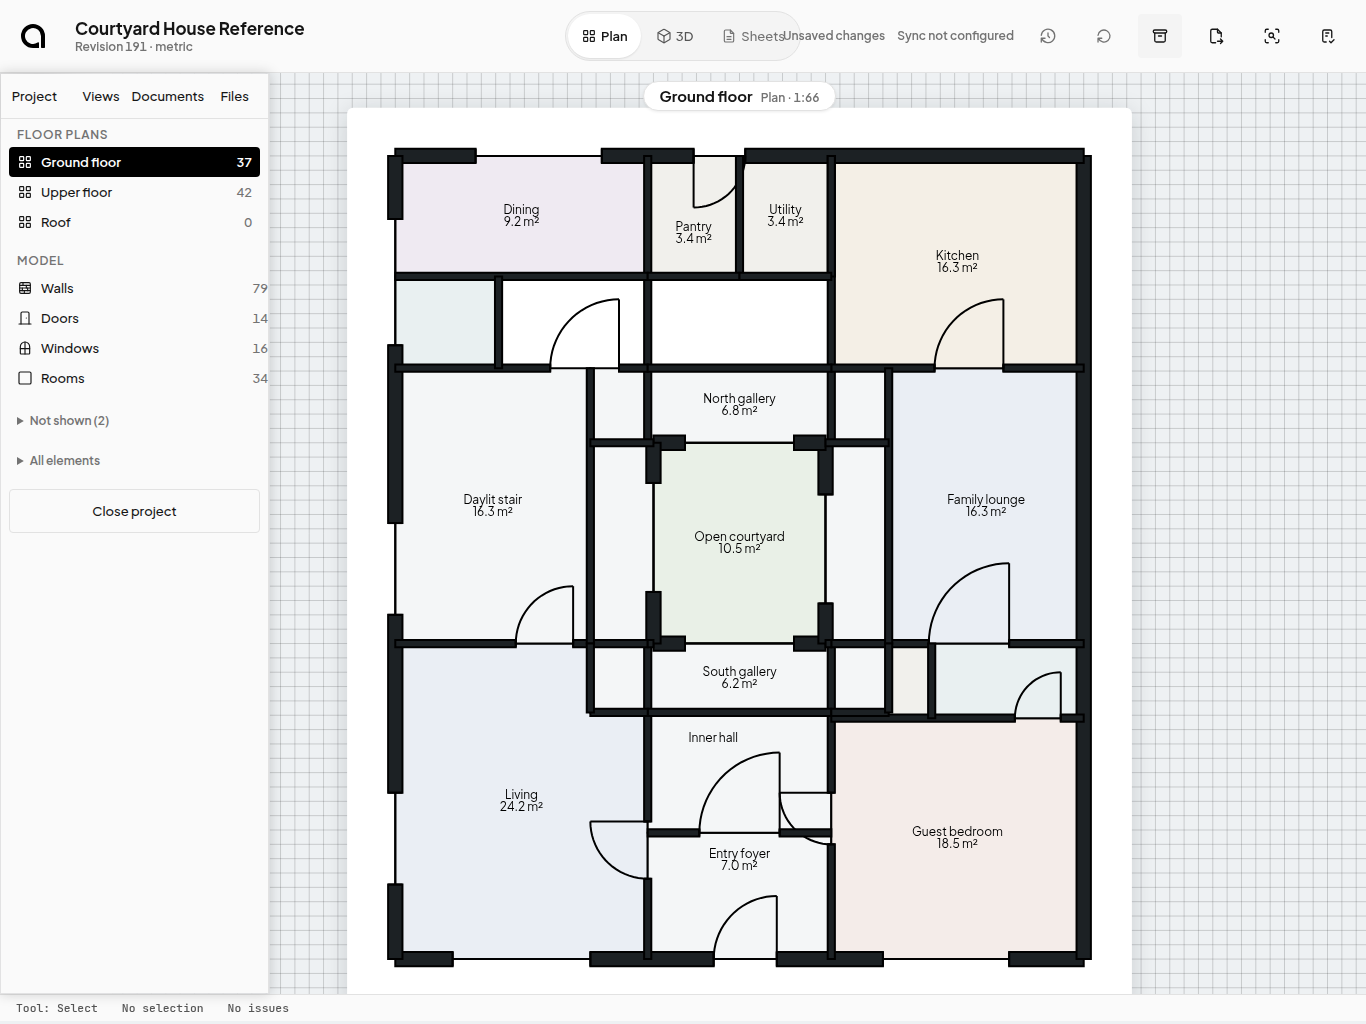
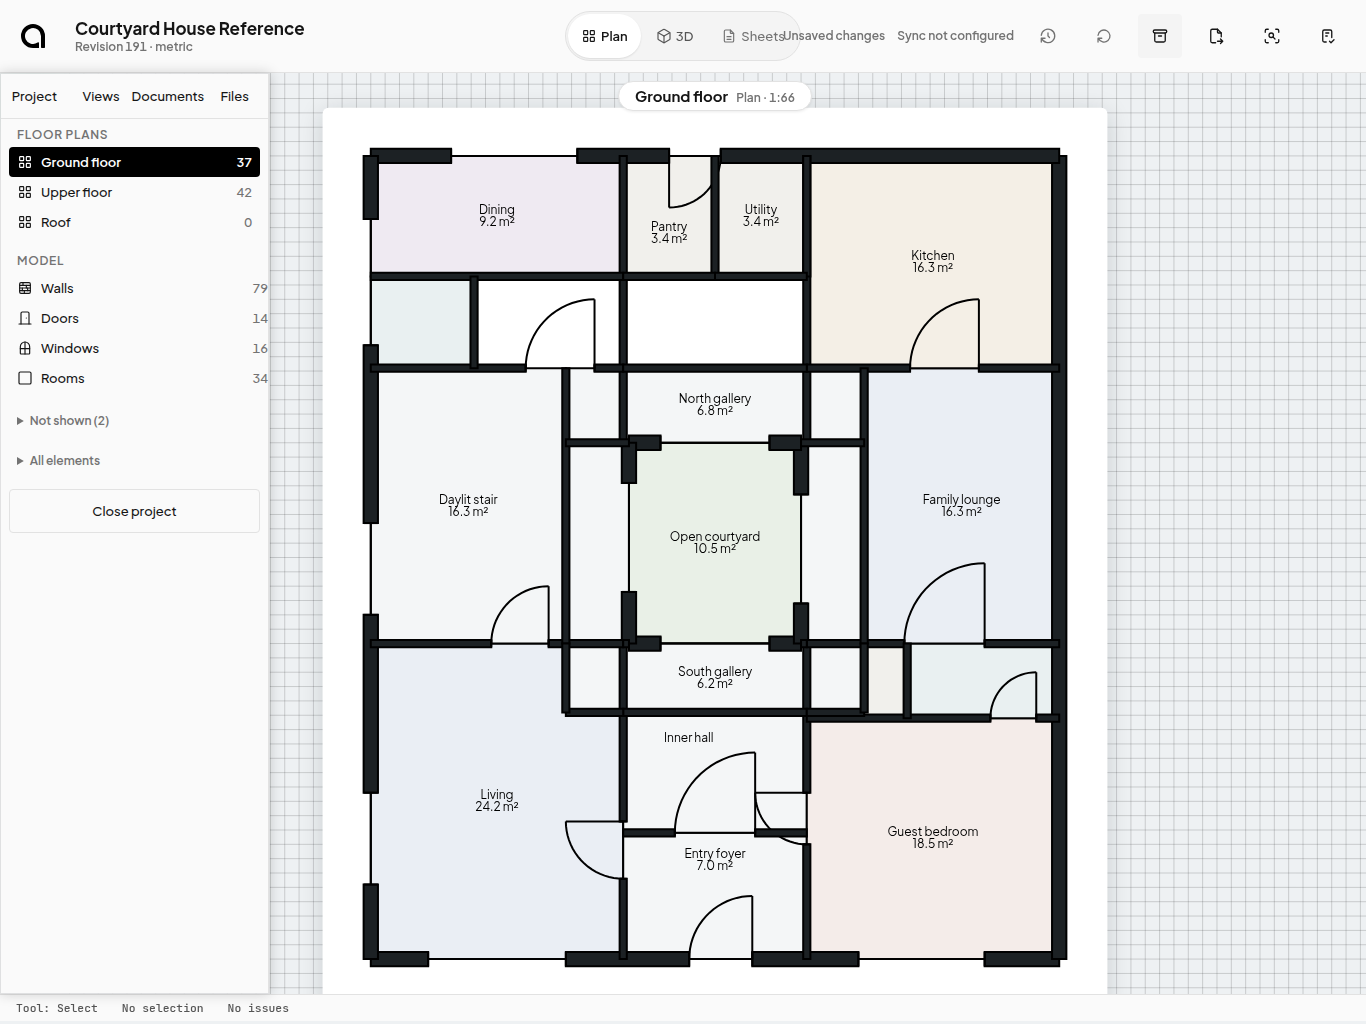
Give the drawing's edge one dock instead of a slab of eleven glyphs
The two rails were already joined edge to edge with a negative margin,
which removed the gutter between them and made it worse rather than
better: two columns abutting read as one 112px slab of eleven glyphs in a
grid down the side of the drawing. The reference gives the whole edge a
single 56px column.

They stack now instead of abutting. The components stay separate - they
answer different questions, each keeps its own landmark and label, and
doc 36 requires that - but doc 36 also allows exactly this visual merge,
and asks that the grouping between them be carried by spacing rather than
a second colour system. It is a rule between the two groups.

`WORKSPACE_RAILS_WIDTH_PX` summed the two rails. Stacked, the dock is as
wide as the wider of them, not as wide as both, so the sum was describing
112px of chrome that is no longer on screen - and every measurement
downstream of it, the canvas floor and the floating panel's offset, was
short by a whole rail. It is a max now.

The active control becomes a filled disc in the brand accent, which is
the one place the brand spec puts that colour in the chrome. Scoped to
the dock rather than changed on `.arq-shell-button[aria-pressed='true']`,
which the tab strip, the panel rows and the phone dock all share. Not
colour alone - it is a fill against an otherwise flat column, and
`aria-pressed` is still what assistive technology reads. The token
resolves to #0b6b50 in light and #35c99b in dark, and the glyph flips
[…]

diff --git a/packages/design-system/src/workspace/workspace-shell.css b/packages/design-system/src/workspace/workspace-shell.css
@@ -148,29 +148,36 @@ body {
   }
 
   /*
-   * One dock, not two.
+   * One dock, one column.
    *
-   * The rails are separate components on purpose - they answer different
-   * questions ("what am I doing?" and "what am I doing it with?") and stay
-   * semantically apart, each with its own landmark and label. But they were
-   * also two *cards*, floating side by side with a gutter between them, so the
-   * left edge read as two toolbars competing for the same job. The reference
-   * gives the whole edge to one dock.
-   *
-   * Joined by geometry rather than by merging the markup: the seam closes, the
-   * outer corners keep their radius, and a single divider line says where one
-   * ends. Nothing about the accessibility tree changes.
+   * The rails used to be joined edge to edge with a negative margin, which
+   * removed the gutter between them and left the two columns reading as one
+   * slab: eleven glyphs in a 112px grid down the side of the drawing. The
+   * reference gives the edge a single 56px column, so the dock stacks them
+   * instead of abutting them, and the seam between the two groups is a rule
+   * rather than a gap - doc 36's "grouping/spacing, not a second colour
+   * system".
    */
-  .arq-workspace .arq-mode-rail {
-    border-start-end-radius: 0;
-    border-end-end-radius: 0;
-    border-inline-end: 0;
+  .arq-workspace__dock {
+    align-self: flex-start;
+    max-height: 100%;
+    overflow: auto;
+    border-radius: var(--arq-radius-panel);
+    border: 1px solid var(--arq-ui-line-subtle);
+    background: var(--arq-ui-paper);
   }
 
-  .arq-workspace .arq-mode-rail + .arq-tool-rail {
-    margin-inline-start: calc(-1 * var(--arq-space-compact));
-    border-start-start-radius: 0;
-    border-end-start-radius: 0;
+  .arq-workspace__dock > .arq-mode-rail,
+  .arq-workspace__dock > .arq-tool-rail {
+    border: 0;
+    border-radius: 0;
+    background: transparent;
+    max-height: none;
+    overflow: visible;
+  }
+
+  .arq-workspace__dock > .arq-mode-rail + .arq-tool-rail {
+    border-top: 1px solid var(--arq-ui-line-subtle);
   }
 
   /*
@@ -700,4 +707,37 @@ button.arq-project-directory__row[aria-pressed='true'] .arq-project-directory__c
     var(--arq-space-page) + var(--arq-overlay-right-offset, 0px) +
       var(--arq-overlay-right-width, 0px)
   );
+}
+
+/*
+ * The dock's active control: a filled circle in the brand accent.
+ *
+ * `.arq-shell-button[aria-pressed='true']` paints an ink square, and it is
+ * shared by the tab strip, the panel rows and the phone dock - so this is
+ * scoped rather than a change to that rule. The reference gives the rail's
+ * active glyph a phthalo-green disc, which is the one place the brand colour is
+ * meant to appear in the chrome (brand spec: black, white, and the accent
+ * "reserved for" active states).
+ *
+ * Not colour alone: the disc is a fill against an otherwise flat column, so the
+ * state is carried by contrast and shape as well as hue, and `aria-pressed`
+ * remains the source of truth that assistive technology reads. The token
+ * resolves to #0b6b50 in light and #35c99b in dark, which is why the dark value
+ * exists at all - the brand green measures 2.83:1 on dark paper.
+ */
+.arq-workspace__dock .arq-shell-button[aria-pressed='true'] {
+  background: var(--arq-active-indicator);
+  border-radius: 999px;
+  color: var(--arq-white);
+}
+
+/*
+ * Dark appearance reverses which of the brand's two neutrals reads as "on top
+ * of the accent": #35c99b is a light green, and white glyphs on it fall below
+ * the contrast the rest of the shell holds itself to.
+ */
+@media (prefers-color-scheme: dark) {
+  .arq-workspace__dock .arq-shell-button[aria-pressed='true'] {
+    color: var(--arq-black);
+  }
 }

diff --git a/packages/design-system/src/workspace/workspace-root.tsx b/packages/design-system/src/workspace/workspace-root.tsx
@@ -32,10 +32,17 @@ import { PanelResizeHandle } from './panel-resize-handle';
  *
  * Zero on the touch bands, where `WorkspaceRoot` renders no rails at all.
  */
-export const WORKSPACE_RAILS_WIDTH_PX = MODE_RAIL_WIDTH_PX + TOOL_RAIL_WIDTH_PX;
+/*
+ * The rails are stacked in one column now rather than set side by side, so the
+ * dock is as wide as the wider of the two, not as wide as both. Summing them
+ * described a 112px slab that is no longer on screen and left every downstream
+ * measurement - the canvas floor, the floating panel's offset - short by the
+ * width of a whole rail.
+ */
+export const WORKSPACE_RAILS_WIDTH_PX = Math.max(MODE_RAIL_WIDTH_PX, TOOL_RAIL_WIDTH_PX);
 
 /** The same pair once the tool rail is an icon dock rather than a labelled column. */
-export const WORKSPACE_RAILS_DOCK_WIDTH_PX = MODE_RAIL_WIDTH_PX + TOOL_RAIL_DOCK_WIDTH_PX;
+export const WORKSPACE_RAILS_DOCK_WIDTH_PX = Math.max(MODE_RAIL_WIDTH_PX, TOOL_RAIL_DOCK_WIDTH_PX);
 
 /**
  * `toolRailIsDock` has to be told, not guessed: the rail decides its own width
@@ -427,15 +434,30 @@ export function WorkspaceRoot(props: WorkspaceRootProps): JSX.Element {
             }px`,
           }}
         >
+          {/*
+            One dock, one column.
+
+            The two rails are separate components on purpose - they answer
+            different questions ("what am I doing?" and "what am I doing it
+            with?"), each keeps its own landmark and label, and doc 36 requires
+            they stay semantically apart. But they were also two *columns*,
+            side by side, so the left edge read as a 112px slab of eleven
+            glyphs in a grid. The reference gives the whole edge to one 56px
+            column. Doc 36 allows exactly this - "merge visually" - and asks
+            that the grouping be carried by spacing rather than a second colour
+            system, which is what the divider between them is.
+          */}
           {!canvasFirst && (
-            <ModeRail
-              project={project}
-              activeMode={activeMode}
-              onSelectMode={onSelectMode}
-              {...(modeIcons === undefined ? {} : { modeIcons })}
-            />
+            <div className="arq-workspace__dock">
+              <ModeRail
+                project={project}
+                activeMode={activeMode}
+                onSelectMode={onSelectMode}
+                {...(modeIcons === undefined ? {} : { modeIcons })}
+              />
+              {toolRail}
+            </div>
           )}
-          {!canvasFirst && toolRail}
 
           {browserDocked && (
             <>
